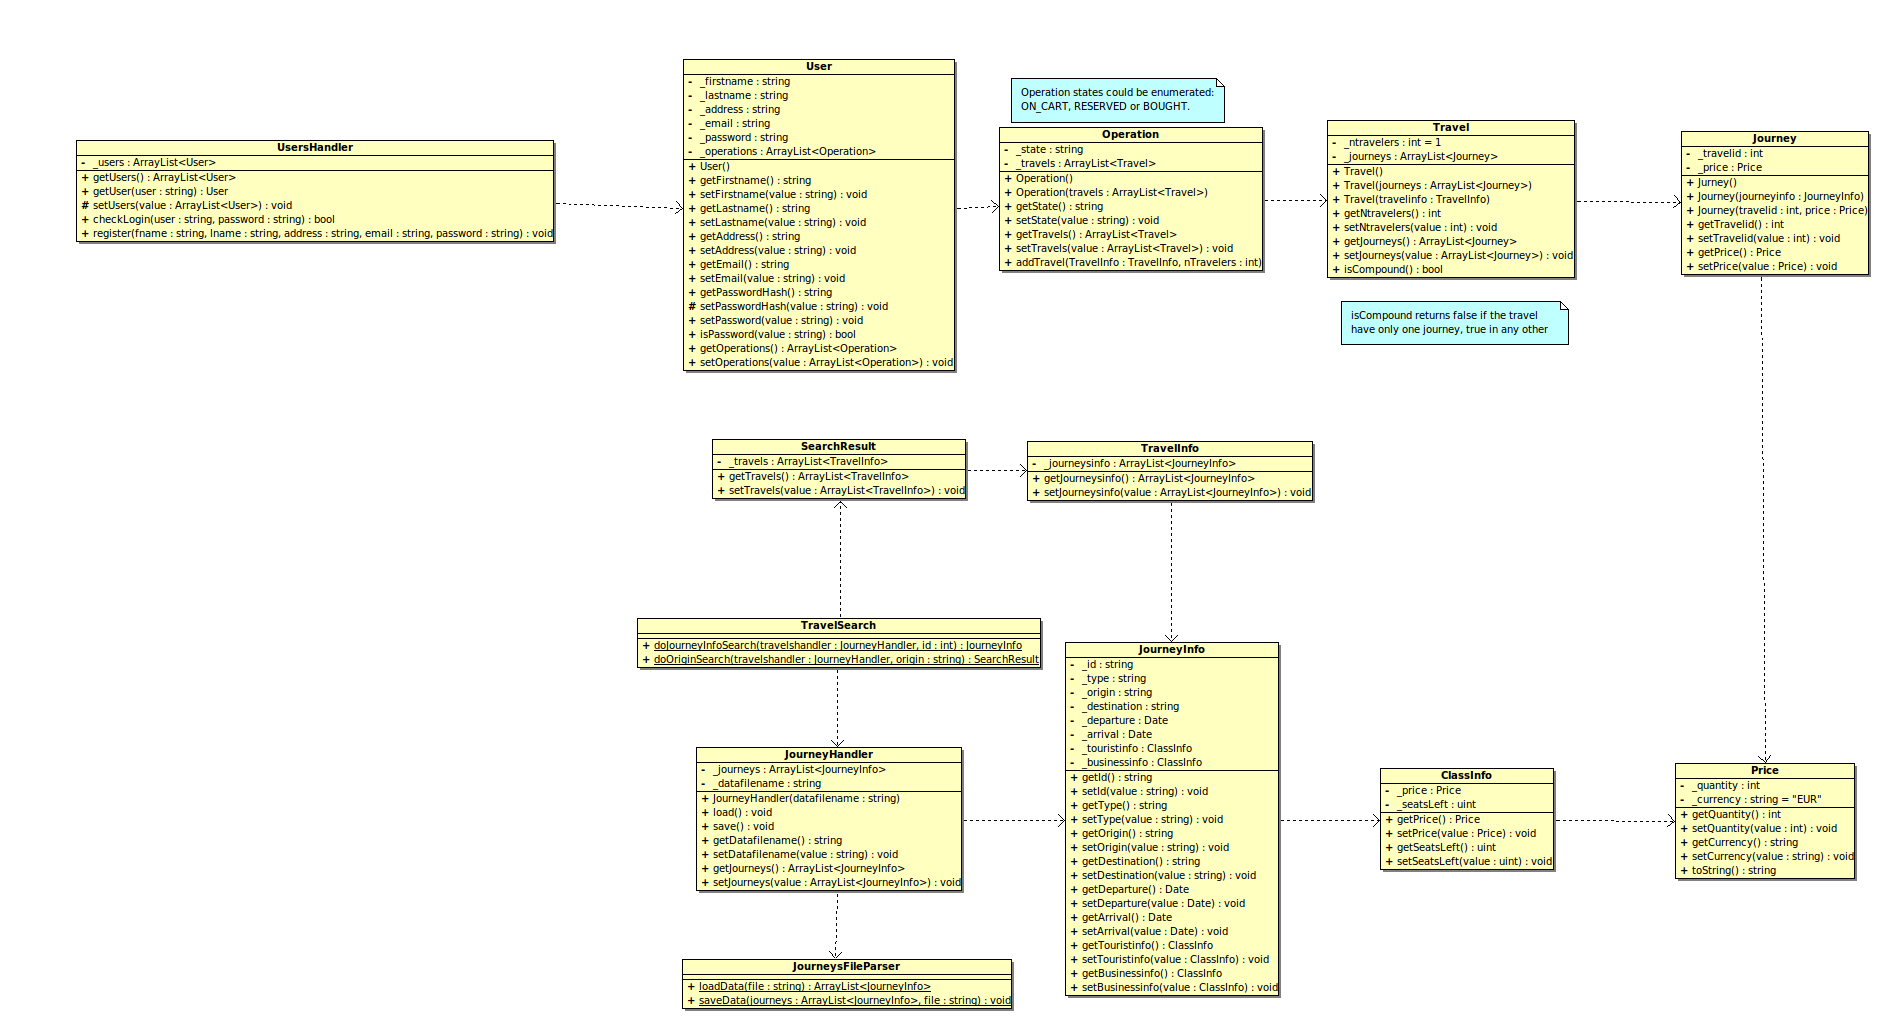
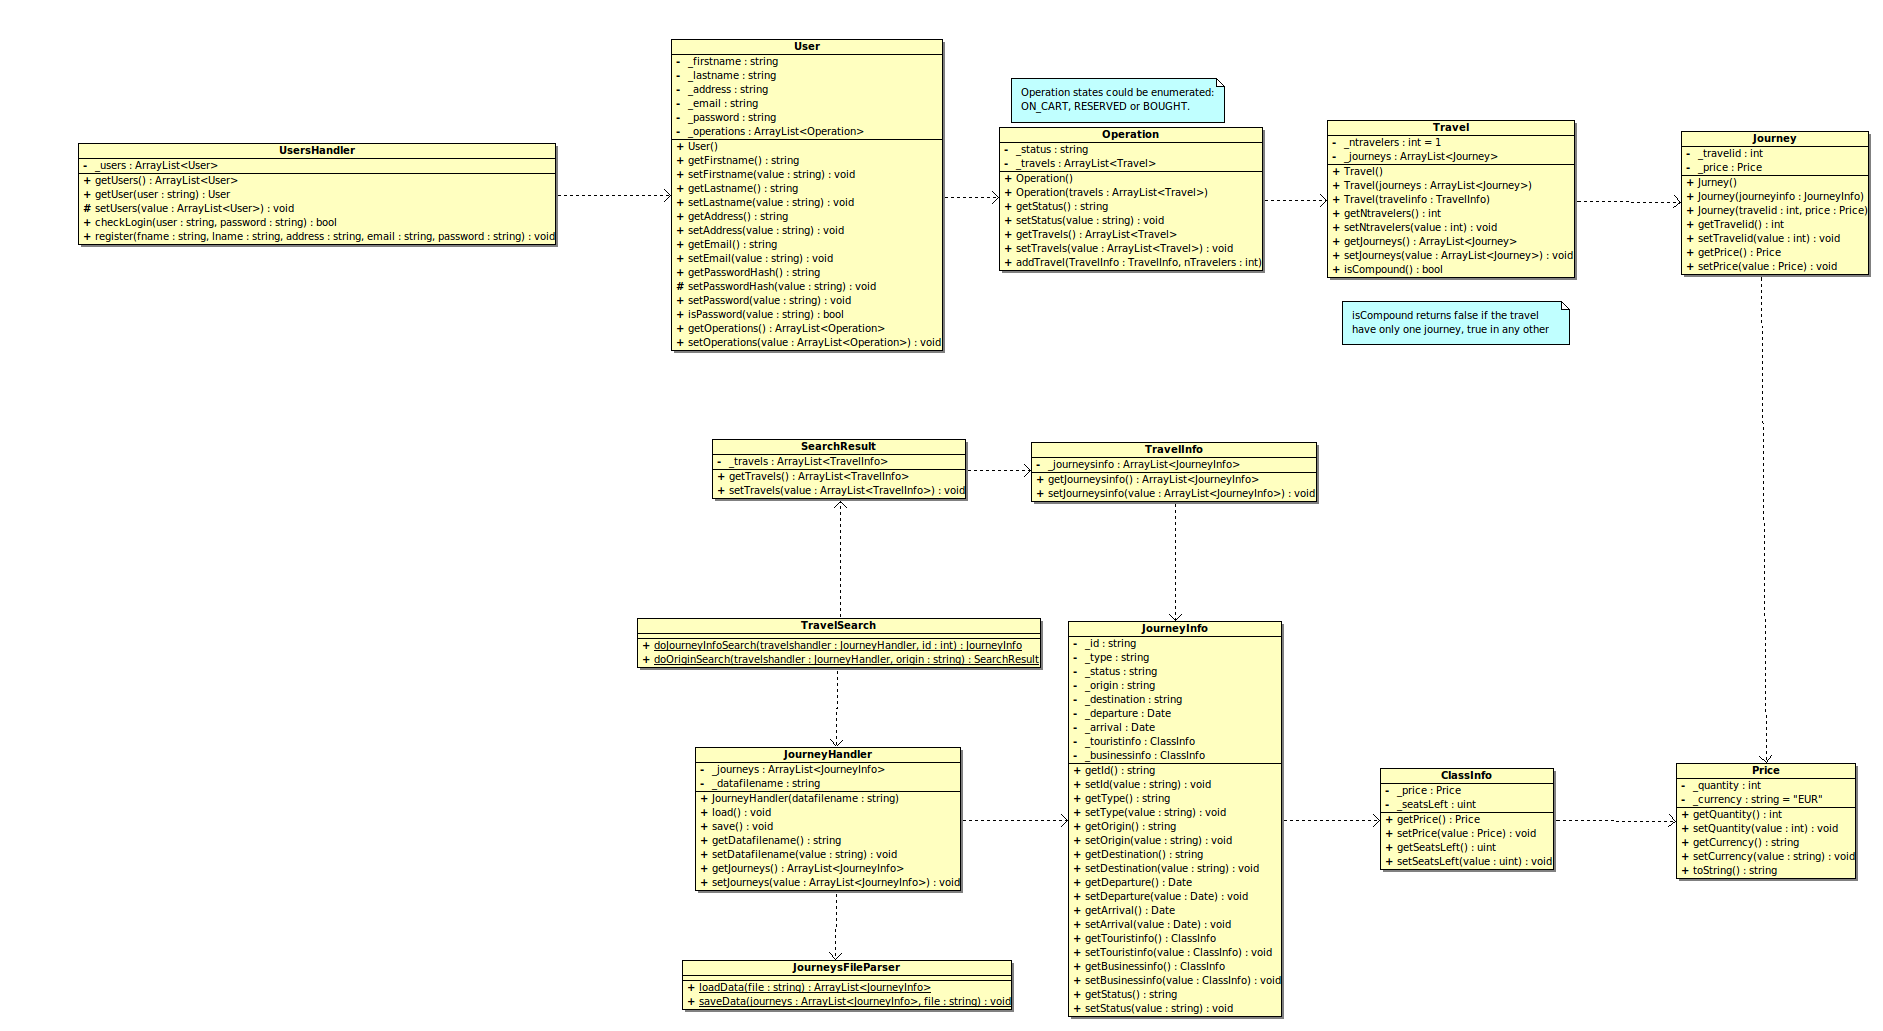
Added loadData to JourneysFileParser and fixed class diagram
loadData method in JourneysFileParser class now is implemented but not tested. The class diagram now shows the change from "state" to "status" name in some attributes.

diff --git a/src/AeroGUI/src/classes/JourneysFileParser.java b/src/AeroGUI/src/classes/JourneysFileParser.java
@@ -1,11 +1,56 @@
 package classes;
 
+import java.io.BufferedReader;
+import java.io.FileNotFoundException;
+import java.io.FileReader;
+import java.io.IOException;
 import java.util.ArrayList;
+import java.util.logging.Level;
+import java.util.logging.Logger;
 
 public class JourneysFileParser {
-    public static ArrayList<JourneyInfo> loadData(String file) {
-        // TODO: Implement this
-        return null;
+    public static ArrayList<JourneyInfo> loadData(String file) throws FileNotFoundException {
+        ArrayList<JourneyInfo> result = new ArrayList<JourneyInfo>();
+
+        BufferedReader bi = new BufferedReader(new FileReader(file));
+        String line;
+        String[] lineinfo;
+        try {
+            while ((line = bi.readLine()) != null) {
+                JourneyInfo journeyinfo = new JourneyInfo();
+                lineinfo = line.split("#");
+
+                // Transport information
+                journeyinfo.setId(lineinfo[0]);
+                journeyinfo.setType(lineinfo[1]);
+
+                // Journey information
+                journeyinfo.setOrigin(lineinfo[2]);
+                journeyinfo.setDestination(lineinfo[3]);
+                
+                // TODO: Check email to know teachers answer and date-time format
+                journeyinfo.setDeparture(null);
+                journeyinfo.setArrival(null);
+
+                // Classes information
+                journeyinfo.getTouristinfo().getPrice().setQuantity(Integer.parseInt(lineinfo[6]));
+                journeyinfo.getTouristinfo().setSeatsLeft(Integer.parseInt(lineinfo[7]));
+                journeyinfo.getBusinessinfo().getPrice().setQuantity(Integer.parseInt(lineinfo[8]));
+                journeyinfo.getBusinessinfo().setSeatsLeft(Integer.parseInt(lineinfo[9]));
+
+                // State information
+                journeyinfo.setStatus(lineinfo[10]);
+
+                // Append the new JourneyInfo
+                result.add(journeyinfo);
+
+            }
+        } catch (IOException ex) {
+            Logger.getLogger(JourneysFileParser.class.getName()).log(Level.SEVERE, null, ex);
+        }
+
+        // Return the result ArrayList
+        return result;
     }
 
     public static void saveData(ArrayList<JourneyInfo> journeysinfo, String file) {

diff --git a/src/AeroGUI/src/classes/Operation.java b/src/AeroGUI/src/classes/Operation.java
@@ -3,23 +3,23 @@ package classes;
 import java.util.ArrayList;
 
 public class Operation {
-    private OperationState _state;
+    private OperationStatus _status;
     private ArrayList<Travel> _travels;
 
     public Operation() {
     }
 
-    public Operation(OperationState _state, ArrayList<Travel> _travels) {
-        this._state = _state;
+    public Operation(OperationStatus _state, ArrayList<Travel> _travels) {
+        this._status = _state;
         this._travels = _travels;
     }
 
-    public OperationState getState() {
-        return _state;
+    public OperationStatus getStatus() {
+        return _status;
     }
 
-    public void setState(OperationState _state) {
-        this._state = _state;
+    public void setStatus(OperationStatus _status) {
+        this._status = _status;
     }
 
     public ArrayList<Travel> getTravels() {

diff --git a/src/AeroGUI/src/classes/JourneyInfo.java b/src/AeroGUI/src/classes/JourneyInfo.java
@@ -5,6 +5,7 @@ import java.util.Date;
 public class JourneyInfo {
     private String _id;
     private String _type;
+    private String _status;
     private String _origin;
     private String _destination;
     private Date _departure;
@@ -77,5 +78,13 @@ public class JourneyInfo {
 
     public void setType(String _type) {
         this._type = _type;
+    }
+
+    public String getStatus() {
+        return _status;
+    }
+
+    public void setStatus(String _status) {
+        this._status = _status;
     }
 }

diff --git a/src/AeroGUI/src/classes/OperationStatus.java b/src/AeroGUI/src/classes/OperationStatus.java
@@ -1,5 +1,5 @@
 package classes;
 
-public enum OperationState {
+public enum OperationStatus {
     ON_CART, RESERVED, BOUGHT
 }
